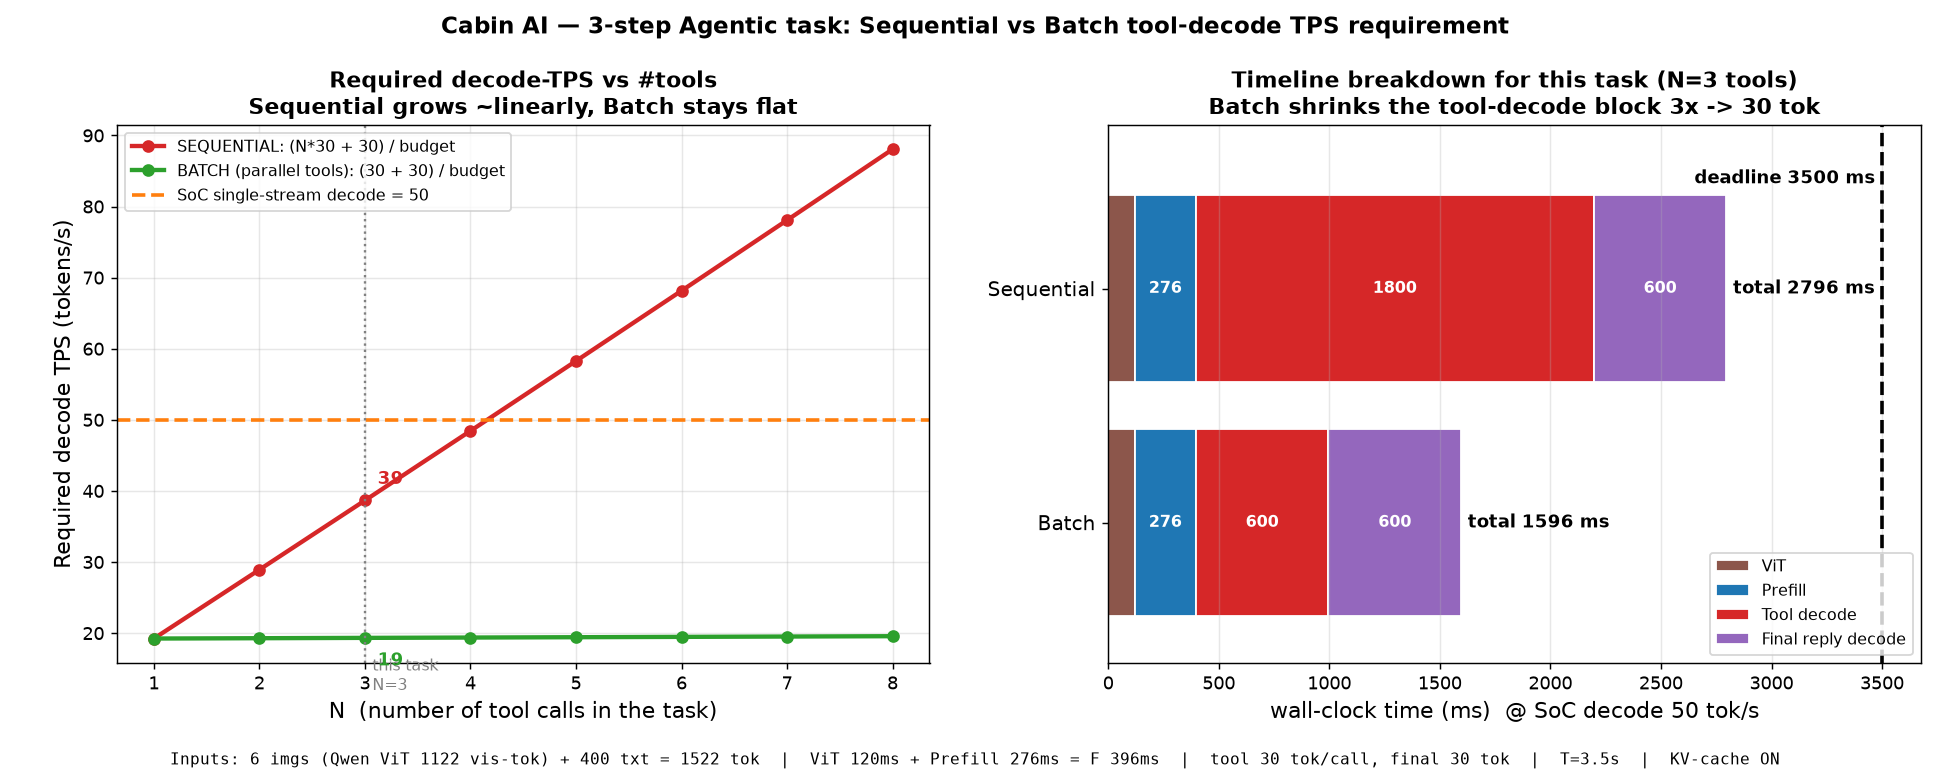
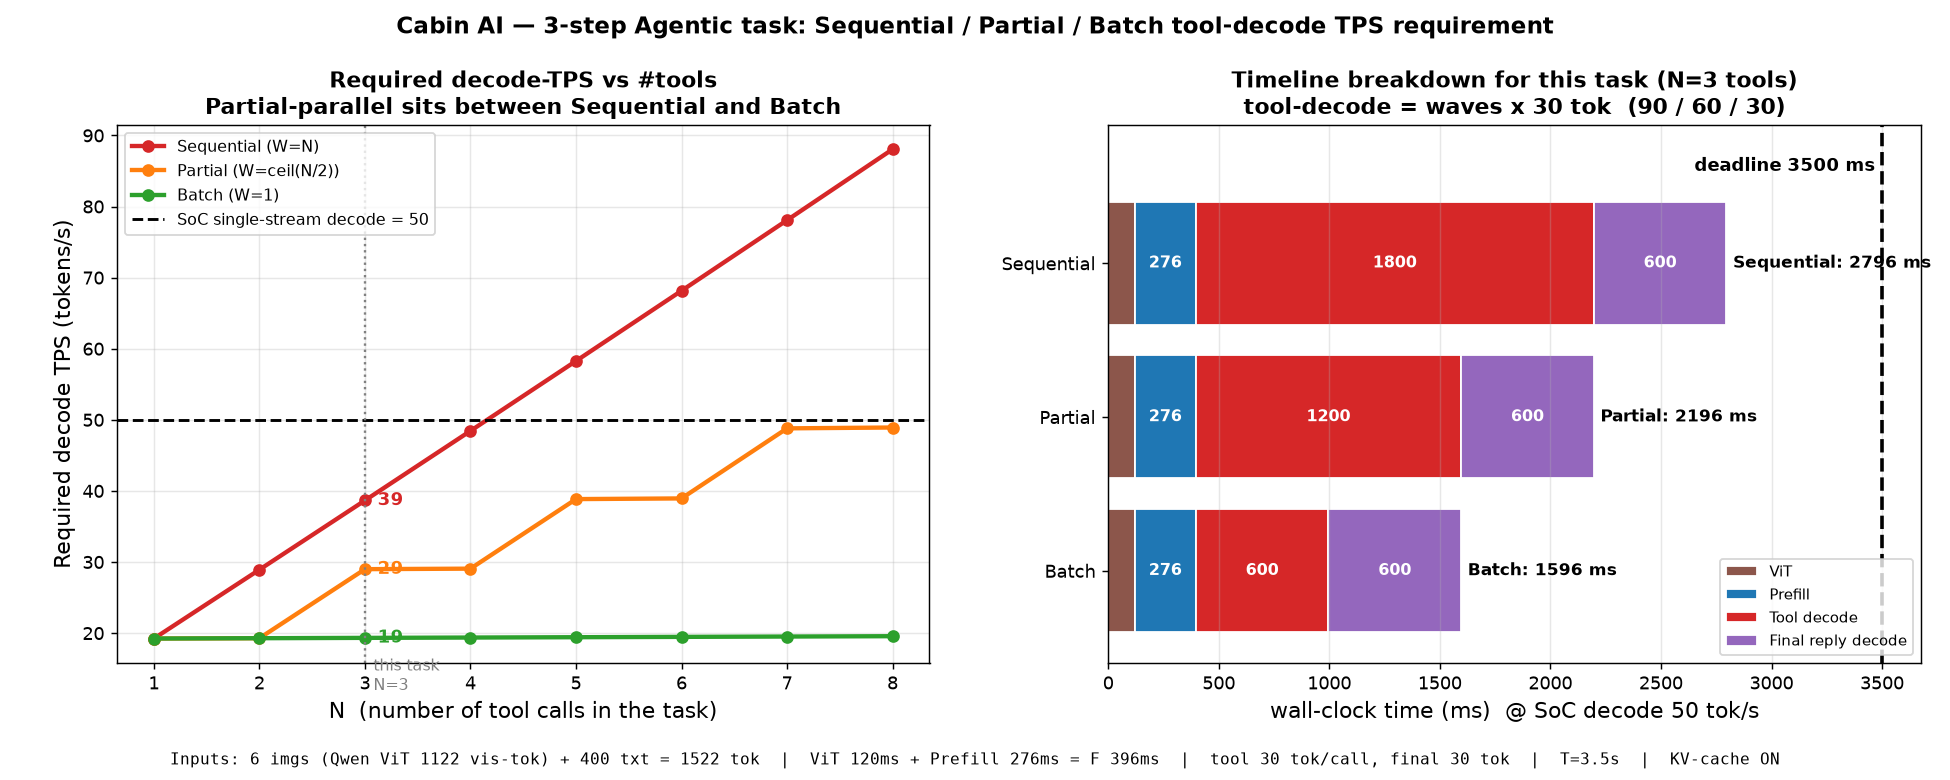
Add partial-parallel scenario via dependency waves (W)
Model the N tool calls as W dependency waves: tools in a wave run batched
(one 30-tok round), waves run serially. W=N is fully sequential, W=1 fully
batched, 1<W<N partial. tool-decode = W*30. Adds a third curve (partial =
ceil(N/2) waves) between the sequential and batch lines, plus a 3-bar
N=3 timeline (90/60/30 tok tool-decode).

Claude-Session: https://claude.ai/code/session_01LZMzjTCFdst1heK6JCMBwi

diff --git a/tps_requirement_analysis.py b/tps_requirement_analysis.py
@@ -155,25 +155,27 @@ def fixed_costs(N, verbose=False):
 
 
 # ============================================================
-# 5) Decode 需求 — 序列 vs 併發 batch
+# 5) Decode 需求 — 用「依賴波次 W」統一序列 / 部分平行 / 全平行
 # ============================================================
 #
-# decode 預算時間: budget = T - F
+# 把 N 個工具按依賴關係分成 W 個「波 (wave)」: 同一波彼此獨立 -> 可 batch 一輪
+# (牆鐘只花 30 tok); 波與波之間有依賴 -> 必須序列。
+#   W = N  -> 全序列   (每個工具自己一波)            tool decode = N*30
+#   W = 1  -> 全平行   (所有工具同一波, 一輪吐完)      tool decode =   30
+#   1<W<N  -> 部分平行 (例: 3 工具 = 2 平行 + 1 依賴 -> W=2)  tool decode = W*30
 #
-# 牆鐘要 decode 的 token 數 (這是 序列/併發 唯一的差別):
-#   序列 Sequential : N 個工具逐一 decode  = N x 30  ; 再加最後回覆 30  -> N*30 + 30
-#   併發 Batch      : N 個工具一輪同時 decode = 30    ; 再加最後回覆 30  ->   30 + 30
+# 牆鐘 decode token = W*30 + 30(最後回覆, 單獨一條無法平行)
+# 需求 (單流) decode TPS = (W*30 + 30) / (T - F)
 #
-# 需求 (單流) decode TPS = 牆鐘 decode token / budget
-#   序列: (N*30 + 30) / budget   -> 隨 N 線性上升
-#   併發: (  30 + 30) / budget   -> 與 N 無關 (近水平)
-#   工具階段差異倍率 = N   (N*30 vs 30)
-#
-def seq_decode_tokens(N):
-    return N * DECODE_TOK_PER_STEP + FINAL_REPLY_TOK
+def waves_for(mode, N):
+    """回傳該模式的波次數 W。partial: 成對平行 -> ceil(N/2) 波。"""
+    if mode == "seq":      return N                 # 全序列
+    if mode == "batch":    return 1                 # 全平行
+    if mode == "partial":  return int(np.ceil(N / 2))  # 部分平行 (成對)
+    raise ValueError(mode)
 
-def batch_decode_tokens(N):
-    return DECODE_TOK_PER_STEP + FINAL_REPLY_TOK
+def decode_tokens_for_waves(W):
+    return W * DECODE_TOK_PER_STEP + FINAL_REPLY_TOK
 
 def required_tps(decode_tokens, F, T=DEADLINE_S):
     denom = T - F
@@ -187,114 +189,97 @@ def main():
     T = DEADLINE_S
     fixed_costs(N_TOOL_STEPS, verbose=True)
 
-    print("=" * 78)
-    print("序列 vs 併發 batch 的 decode TPS 需求 (deadline 3.5s)")
-    print("=" * 78)
-    print(f"{'N工具':>5} | {'F(ViT+prefill)':>13} | {'budget':>8} | "
-          f"{'序列decode':>9} {'需求TPS':>8} | {'併發decode':>9} {'需求TPS':>8} | {'倍率':>4}")
-    print("-" * 88)
-    rows = []
+    MODES = [("seq", "Sequential (W=N)", "#d62728"),
+             ("partial", "Partial (W=ceil(N/2))", "#ff7f0e"),
+             ("batch", "Batch (W=1)", "#2ca02c")]
+
+    print("=" * 84)
+    print("序列 / 部分平行 / 全平行 的 decode TPS 需求 (deadline 3.5s)")
+    print("=" * 84)
+    print(f"{'N工具':>5} | {'budget':>8} | "
+          f"{'序列(W=N)':>12} | {'部分(W=⌈N/2⌉)':>14} | {'全平行(W=1)':>12}")
+    print("-" * 84)
     for N in range(1, 9):
-        info = fixed_costs(N)
-        F = info["F"]
+        F = fixed_costs(N)["F"]
         budget = T - F
-        sd, bd = seq_decode_tokens(N), batch_decode_tokens(N)
-        stps = required_tps(sd, F)
-        btps = required_tps(bd, F)
-        rows.append((N, F, budget, sd, bd, stps, btps))
+        cells = []
+        for mode, _, _ in MODES:
+            W = waves_for(mode, N)
+            dt = decode_tokens_for_waves(W)
+            tps = required_tps(dt, F)
+            cells.append(f"{W}波 {dt}t {tps:>4.0f}t/s")
         mark = "  <- 本題" if N == N_TOOL_STEPS else ""
-        if budget <= 0:
-            print(f"{N:>5} | {F*1000:>10.0f} ms | {'<=0':>8} | {sd:>9} {'INF':>8} | "
-                  f"{bd:>9} {'INF':>8} | {'-':>4}{mark}")
-        else:
-            print(f"{N:>5} | {F*1000:>10.0f} ms | {budget*1000:>5.0f} ms | "
-                  f"{sd:>6} tok {stps:>6.0f} | {bd:>6} tok {btps:>6.0f} | "
-                  f"{sd/bd:>3.1f}x{mark}")
+        print(f"{N:>5} | {budget*1000:>5.0f} ms | {cells[0]:>12} | {cells[1]:>14} | {cells[2]:>12}{mark}")
     print()
 
-    # 針對本題 N=3 的結論
     info3 = fixed_costs(N_TOOL_STEPS)
     F3 = info3["F"]
-    b3 = T - F3
-    s3 = required_tps(seq_decode_tokens(N_TOOL_STEPS), F3)
-    bt3 = required_tps(batch_decode_tokens(N_TOOL_STEPS), F3)
-    print(f"[本題 N={N_TOOL_STEPS}]  budget = {b3*1000:.0f} ms")
-    print(f"  序列: decode {seq_decode_tokens(N_TOOL_STEPS)} tok -> 需求 {s3:.1f} tok/s")
-    print(f"  併發: decode {batch_decode_tokens(N_TOOL_STEPS)} tok -> 需求 {bt3:.1f} tok/s")
-    print(f"  SoC 單流 {SOC_DECODE_TPS_SINGLE:.0f} tok/s -> "
-          f"序列 {'OK' if SOC_DECODE_TPS_SINGLE>=s3 else 'FAIL'} / "
-          f"併發 {'OK' if SOC_DECODE_TPS_SINGLE>=bt3 else 'FAIL'}")
+    print(f"[本題 N={N_TOOL_STEPS}]  budget = {(T-F3)*1000:.0f} ms,  SoC 單流 {SOC_DECODE_TPS_SINGLE:.0f} tok/s")
+    for mode, label, _ in MODES:
+        W = waves_for(mode, N_TOOL_STEPS)
+        dt = decode_tokens_for_waves(W)
+        tps = required_tps(dt, F3)
+        print(f"  {label:<22}: {W} 波, tool {W*DECODE_TOK_PER_STEP}+final {FINAL_REPLY_TOK}"
+              f"={dt} tok -> 需求 {tps:.1f} tok/s  "
+              f"[{'OK' if SOC_DECODE_TPS_SINGLE>=tps else 'FAIL'}]")
     print()
 
     # ================= 畫圖 =================
     Ns = np.arange(1, 9)
-    seq_tps = np.array([required_tps(seq_decode_tokens(n), fixed_costs(n)["F"]) for n in Ns])
-    bat_tps = np.array([required_tps(batch_decode_tokens(n), fixed_costs(n)["F"]) for n in Ns])
-
     fig, (ax1, ax2) = plt.subplots(1, 2, figsize=(15, 6))
 
-    # ---- 左圖: 需求 decode TPS vs 工具數 N ----
-    ax1.plot(Ns, seq_tps, "o-", color="#d62728", lw=2.4,
-             label="SEQUENTIAL: (N*30 + 30) / budget")
-    ax1.plot(Ns, bat_tps, "o-", color="#2ca02c", lw=2.4,
-             label="BATCH (parallel tools): (30 + 30) / budget")
-    ax1.axhline(SOC_DECODE_TPS_SINGLE, color="#ff7f0e", lw=2, ls="--",
+    # ---- 左圖: 需求 decode TPS vs 工具數 N, 三條線 ----
+    for mode, label, color in MODES:
+        ys = np.array([required_tps(decode_tokens_for_waves(waves_for(mode, n)),
+                                    fixed_costs(n)["F"]) for n in Ns])
+        ax1.plot(Ns, ys, "o-", color=color, lw=2.4, label=label)
+        # 標出 N=3 的數值
+        yv = required_tps(decode_tokens_for_waves(waves_for(mode, N_TOOL_STEPS)), F3)
+        ax1.annotate(f"{yv:.0f}", xy=(N_TOOL_STEPS, yv), xytext=(N_TOOL_STEPS+0.12, yv),
+                     color=color, fontsize=10, fontweight="bold", va="center")
+    ax1.axhline(SOC_DECODE_TPS_SINGLE, color="black", lw=1.6, ls="--",
                 label=f"SoC single-stream decode = {SOC_DECODE_TPS_SINGLE:.0f}")
     ax1.axvline(N_TOOL_STEPS, color="gray", lw=1.3, ls=":")
-    ax1.text(N_TOOL_STEPS + 0.07, ax1.get_ylim()[0] if False else 12,
-             f"this task\nN={N_TOOL_STEPS}", color="gray", fontsize=9)
-    # 標 N=3 的兩點數值
-    ax1.annotate(f"{seq_tps[N_TOOL_STEPS-1]:.0f}", xy=(N_TOOL_STEPS, seq_tps[N_TOOL_STEPS-1]),
-                 xytext=(N_TOOL_STEPS+0.12, seq_tps[N_TOOL_STEPS-1]*1.06),
-                 color="#d62728", fontsize=10, fontweight="bold")
-    ax1.annotate(f"{bat_tps[N_TOOL_STEPS-1]:.0f}", xy=(N_TOOL_STEPS, bat_tps[N_TOOL_STEPS-1]),
-                 xytext=(N_TOOL_STEPS+0.12, bat_tps[N_TOOL_STEPS-1]*0.80),
-                 color="#2ca02c", fontsize=10, fontweight="bold")
+    ax1.text(N_TOOL_STEPS + 0.08, 12, f"this task\nN={N_TOOL_STEPS}", color="gray", fontsize=9)
     ax1.set_xlabel("N  (number of tool calls in the task)", fontsize=12)
     ax1.set_ylabel("Required decode TPS (tokens/s)", fontsize=12)
-    ax1.set_title("Required decode-TPS vs #tools\nSequential grows ~linearly, Batch stays flat",
+    ax1.set_title("Required decode-TPS vs #tools\nPartial-parallel sits between Sequential and Batch",
                   fontsize=12, fontweight="bold")
     ax1.grid(True, alpha=0.3)
     ax1.legend(fontsize=9, loc="upper left")
 
-    # ---- 右圖: N=3 的時間軸拆解 (用 SoC 單流速度換算 decode 時間) ----
-    def timeline(decode_tool_tokens):
-        vit = info3["vit_s"] * 1000
-        pf  = info3["prefill_s"] * 1000
-        td  = decode_tool_tokens / SOC_DECODE_TPS_SINGLE * 1000
-        fd  = FINAL_REPLY_TOK / SOC_DECODE_TPS_SINGLE * 1000
-        return vit, pf, td, fd
+    # ---- 右圖: N=3 的時間軸拆解 (三種模式, 用 SoC 單流速度換算) ----
+    def timeline(tool_wall_tokens):
+        return (info3["vit_s"] * 1000, info3["prefill_s"] * 1000,
+                tool_wall_tokens / SOC_DECODE_TPS_SINGLE * 1000,
+                FINAL_REPLY_TOK / SOC_DECODE_TPS_SINGLE * 1000)
 
-    seq_tool_wall = N_TOOL_STEPS * DECODE_TOK_PER_STEP   # 90
-    bat_tool_wall = DECODE_TOK_PER_STEP                  # 30
     segs = [("ViT", "#8c564b"), ("Prefill", "#1f77b4"),
             ("Tool decode", "#d62728"), ("Final reply decode", "#9467bd")]
-    data = {
-        "Sequential": timeline(seq_tool_wall),
-        "Batch":      timeline(bat_tool_wall),
-    }
-    ypos = {"Sequential": 1, "Batch": 0}
-    for name, vals in data.items():
+    bars = []  # (y, name, tool_wall)
+    for i, (mode, label, _) in enumerate(MODES):
+        W = waves_for(mode, N_TOOL_STEPS)
+        bars.append((len(MODES) - 1 - i, label.split(" (")[0], W * DECODE_TOK_PER_STEP))
+    for y, name, tool_wall in bars:
         left = 0
-        for (label, color), v in zip(segs, vals):
-            ax2.barh(ypos[name], v, left=left, color=color, edgecolor="white",
-                     label=label if name == "Sequential" else None)
-            if v > 120:
-                ax2.text(left + v/2, ypos[name], f"{v:.0f}", ha="center", va="center",
+        for (lab, color), v in zip(segs, timeline(tool_wall)):
+            ax2.barh(y, v, left=left, color=color, edgecolor="white",
+                     label=lab if y == bars[0][0] else None)
+            if v > 130:
+                ax2.text(left + v/2, y, f"{v:.0f}", ha="center", va="center",
                          color="white", fontsize=9, fontweight="bold")
             left += v
-        ax2.text(left + 30, ypos[name], f"total {left:.0f} ms",
-                 va="center", fontsize=10, fontweight="bold")
+        ax2.text(left + 30, y, f"{name}: {left:.0f} ms", va="center", fontsize=9.5, fontweight="bold")
     ax2.axvline(DEADLINE_S * 1000, color="black", lw=2, ls="--")
-    ax2.text(DEADLINE_S*1000 - 30, 1.45, f"deadline {DEADLINE_S*1000:.0f} ms",
+    ax2.text(DEADLINE_S*1000 - 30, len(MODES)-0.4, f"deadline {DEADLINE_S*1000:.0f} ms",
              ha="right", color="black", fontsize=10, fontweight="bold")
-    ax2.set_yticks([0, 1]); ax2.set_yticklabels(["Batch", "Sequential"], fontsize=11)
+    ax2.set_yticks([b[0] for b in bars]); ax2.set_yticklabels([b[1] for b in bars], fontsize=10)
     ax2.set_xlabel(f"wall-clock time (ms)  @ SoC decode {SOC_DECODE_TPS_SINGLE:.0f} tok/s", fontsize=12)
     ax2.set_title(f"Timeline breakdown for this task (N={N_TOOL_STEPS} tools)\n"
-                  "Batch shrinks the tool-decode block 3x -> 30 tok",
+                  "tool-decode = waves x 30 tok  (90 / 60 / 30)",
                   fontsize=12, fontweight="bold")
-    ax2.set_ylim(-0.6, 1.7)
-    ax2.legend(fontsize=9, loc="lower right")
+    ax2.set_ylim(-0.6, len(MODES) - 0.1)
+    ax2.legend(fontsize=8.5, loc="lower right")
     ax2.grid(True, axis="x", alpha=0.3)
 
     txt = (f"Inputs: {N_IMAGES} imgs (Qwen ViT {info3['vision_tokens']} vis-tok) + {N_TEXT_TOKENS} txt "
@@ -302,7 +287,7 @@ def main():
            f"Prefill {info3['prefill_s']*1000:.0f}ms = F {F3*1000:.0f}ms  |  "
            f"tool 30 tok/call, final {FINAL_REPLY_TOK} tok  |  T={T}s  |  KV-cache "
            f"{'ON' if USE_KV_CACHE else 'OFF'}")
-    fig.suptitle("Cabin AI — 3-step Agentic task: Sequential vs Batch tool-decode TPS requirement",
+    fig.suptitle("Cabin AI — 3-step Agentic task: Sequential / Partial / Batch tool-decode TPS requirement",
                  fontsize=13, fontweight="bold")
     fig.text(0.5, 0.02, txt, ha="center", fontsize=9, family="monospace")
     fig.subplots_adjust(left=0.06, right=0.985, top=0.84, bottom=0.15, wspace=0.22)
